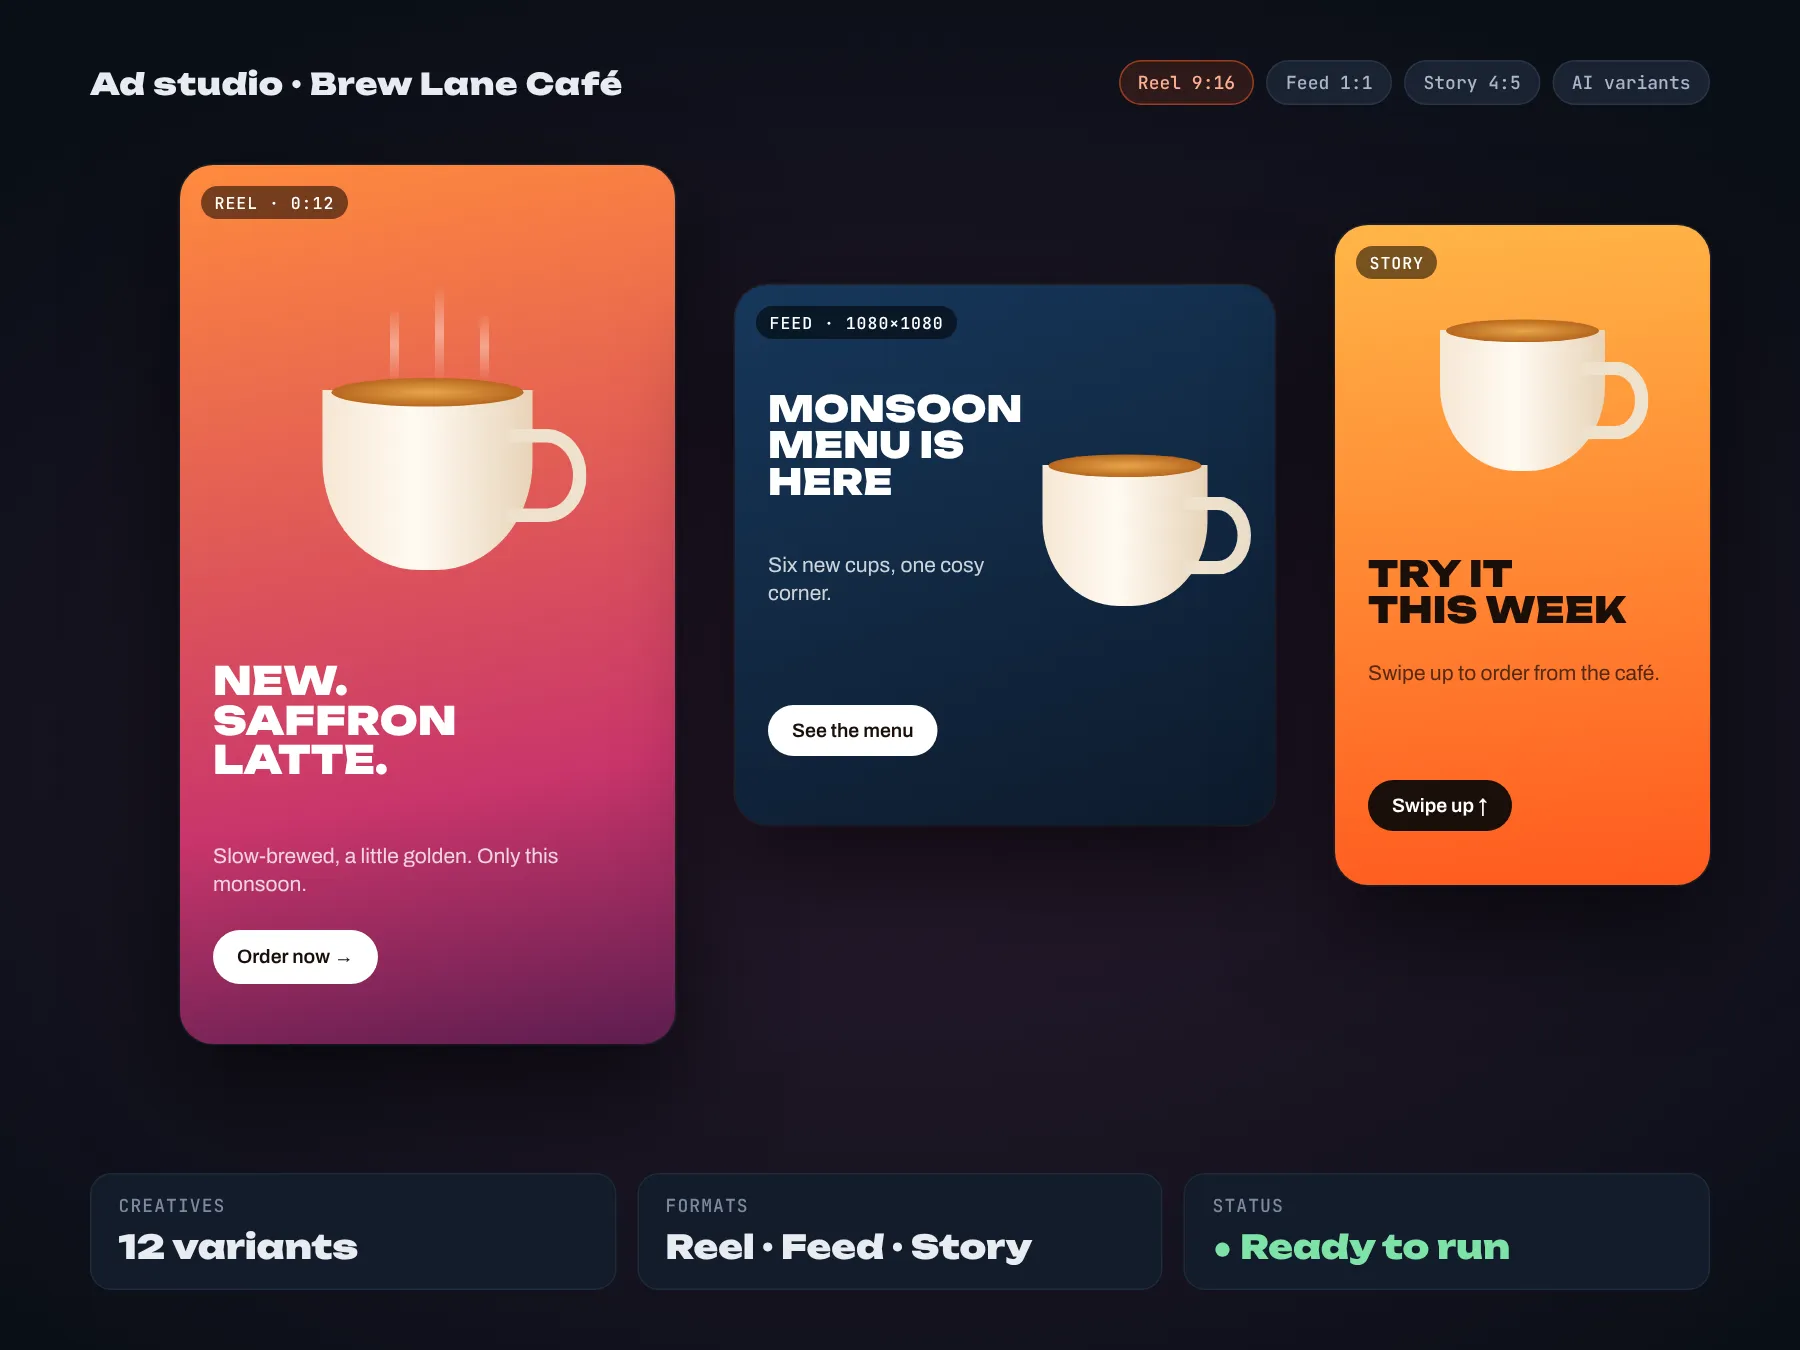
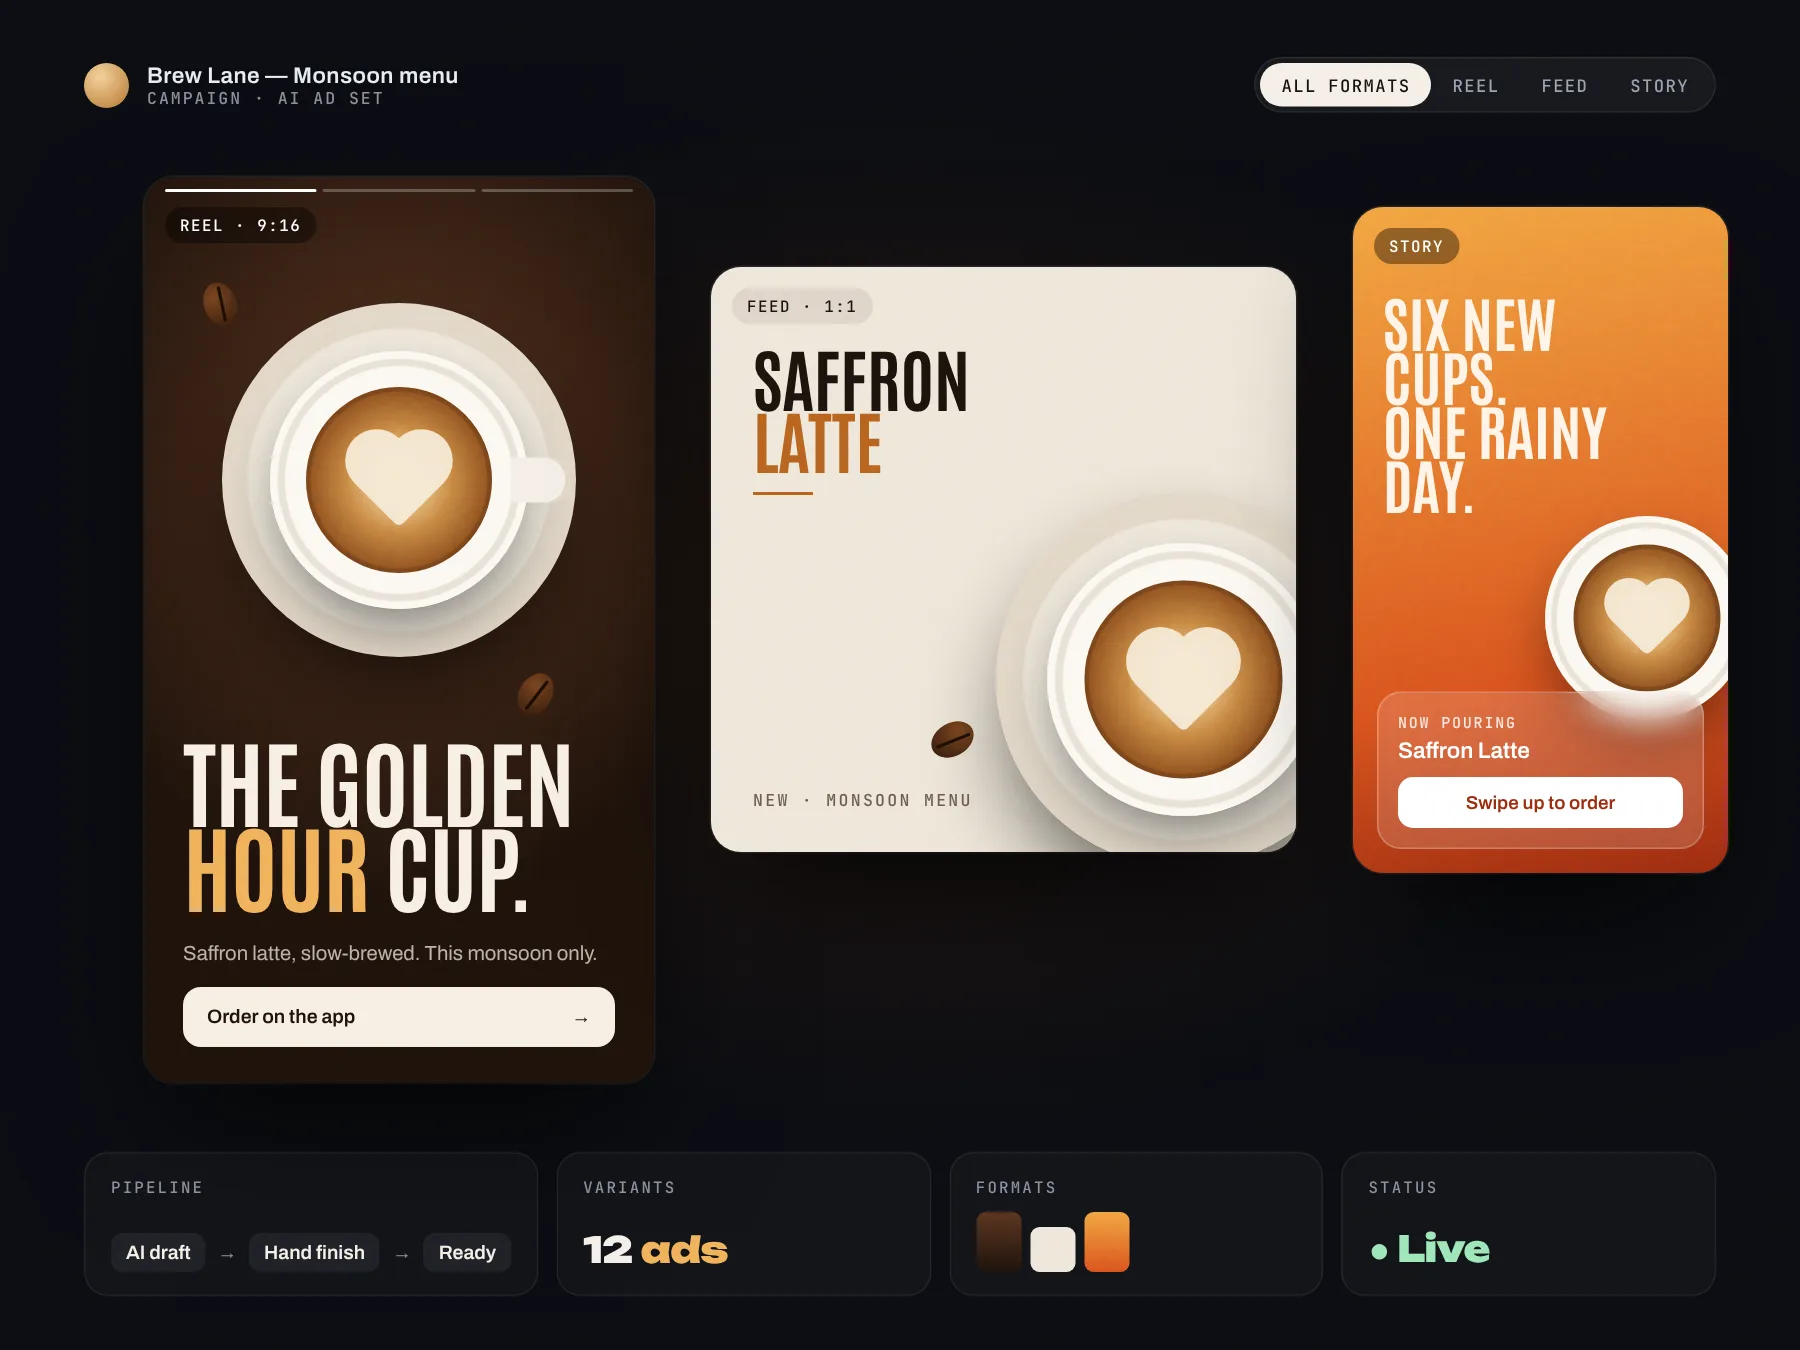
Premium AI Ads project visual

diff --git a/components/sections/Work.tsx b/components/sections/Work.tsx
@@ -8,7 +8,7 @@ import { projects, whatsappLink } from "@/content/site";
 import s from "./Work.module.css";
 
 /** One accent per project for the result screen. */
-const TINTS = ["#e0457b", "#ff5a1f", "#4d8bd1", "#ffb547", "#7ee2a8", "#c9a7ff", "#ff7a59"];
+const TINTS = ["#e8914a", "#ff5a1f", "#4d8bd1", "#ffb547", "#7ee2a8", "#c9a7ff", "#ff7a59"];
 
 /**
  * Work, told like a product page:
